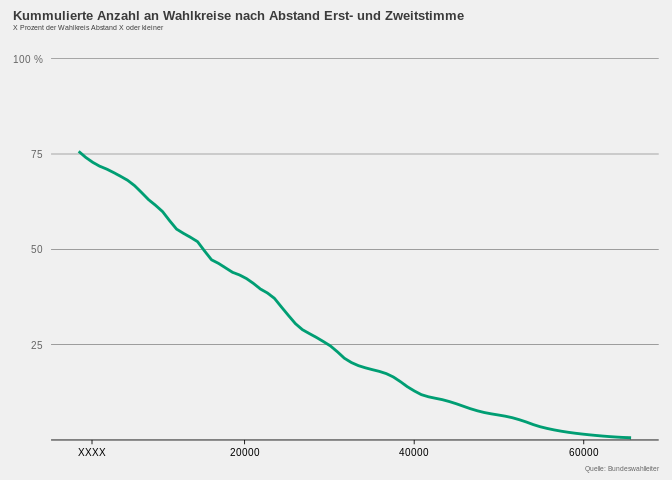
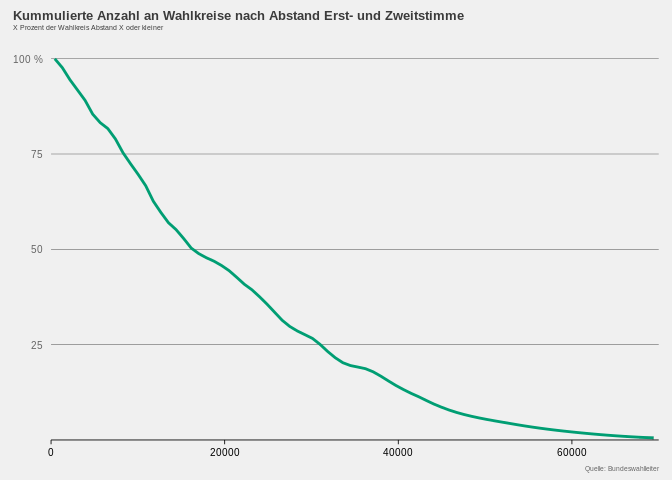
some clean up of code: 1. mainly fixing issues such margin variable and graph etc.

diff --git a/README.md b/README.md
@@ -316,14 +316,15 @@ parties in the parliament
 # 'state' vector for state names; 'data_state' vector needed for the names of the individual state data frames.
 # Additionally a clean data frame for each state as a potential backup source. 
   state <- c("SCH","HAM","NDS","BRE","NRW","HES","RHN","BAD","BAY","SAR","BER","BRA","MEC","SAC","SAA","THU")
-  clean_state <- paste( "clean_",state, sep="")
   data_state <- paste( "state_",state, sep="")
 # create data frames
   for (i in 1:16) {
     cleaned <- cleaned %>% mutate(Bundesland=replace(Bundesland, Bundesland==i, state[i]))
-    assign(paste0(clean_state[i]), cleaned[cleaned$Bundesland==state[i],])
     assign(paste0(data_state[i]), cleaned[cleaned$Bundesland==state[i],])
   rm(i)}
+
+# remove not needed list (short names states)
+  rm(state)
 ```
 
 ### create dynamic state datasets
@@ -617,6 +618,8 @@ rm(i,lp_matching,mandate.value,max_pro_wahlkreis,max_seats,n_parteien,n_wahlkrei
 
 ``` r
 margins <- data.frame(wahlkreisnummer=numeric(), margin=numeric())
+mandate <- data.frame(wahlkreisnummer=numeric(), wahlkreisname=numeric(),Bundesland=character(), mandate_actual=character(), mandate_optimisation=character(), votes_needed=numeric(),votes_halved=numeric())
+
 
 for (i in 1:16) {
  
@@ -657,15 +660,16 @@ for (i in 1:16) {
 
   
 # margins between first and second as dataframe for graph  
-  clean_up <- clean_up %>%
-                 mutate(margin=0) %>%
-                 mutate(margin=replace(margin, second_party == "CDU", CDU),
-                         margin=replace(margin, second_party == "SPD", SPD),
-                         margin=replace(margin, second_party == "LINKE", LINKE),
-                         margin=replace(margin, second_party == "GRÜNE", GRÜNE),
-                         margin=replace(margin, second_party == "CSU", CSU),
-                         margin=replace(margin, second_party == "AFD", AFD),
-                         margin=replace(margin, second_party == "FDP", FDP))
+  clean_up <- clean_up  %>%
+                    mutate(margin=0) %>%
+                    mutate(margin=replace(margin,  second_party == "CDU", CDU[second_party == "CDU"]),
+                          margin=replace(margin, second_party == "SPD", SPD[second_party == "SPD"]),
+                          margin=replace(margin, second_party == "LINKE", LINKE[second_party == "LINKE"]),
+                          margin=replace(margin, second_party == "GRÜNE", GRÜNE[second_party == "GRÜNE"]),
+                          margin=replace(margin, second_party == "CSU", CSU[second_party == "CSU"]),
+                          margin=replace(margin, second_party == "AFD", AFD[second_party == "AFD"]),
+                          margin=replace(margin, second_party == "FDP", FDP[second_party == "FDP"])) %>%
+                    as.data.frame()
 
   margins_placeholder <- clean_up %>% select(wahlkreisnummer,margin)
   margins <- rbind(margins,margins_placeholder)
@@ -673,26 +677,25 @@ for (i in 1:16) {
 #  divide by two as half amount would already amount to swing
   clean_up <- clean_up %>% mutate(votes_halved= ceiling(votes_needed/2))
 
-# save to data frame  
-  assign(paste0(data_state[i]), clean_up,)    
+# only keep variables needed
+  clean_up <- clean_up %>% select(-c(1,5:19,23)) %>% relocate(any_of(c("wahlkreisnummer" ,"wahlkreisname","Bundesland", "mandate_actual", "mandate_optimisation", "votes_needed","votes_halved")))
+   
 
+# merge with data frame for analysis
+  mandate <- rbind(mandate,clean_up)
 # cleanup
-  rm(loop_state,i,margins_placeholder)
+  rm(loop_state,i,margins_placeholder,clean_up)
 }
 ```
 
-# WHY 0???????????????????
+# Drop not needed data frames and values:
 
-test \<- state\_HAM
-
-test \<- state\_HAM %\>% mutate(margin=NA) %\>%
-mutate(margin=replace(margin, second\_party == “CDU” & is.na(margin),
-CDU)), margin=replace(margin, second\_party == “SPD”, SPD),
-margin=replace(margin, second\_party == “LINKE”, LINKE),
-margin=replace(margin, second\_party == “GRÜNE”, GRÜNE),
-margin=replace(margin, second\_party == “CSU”, CSU),
-margin=replace(margin, second\_party == “AFD”, AFD),
-margin=replace(margin, second\_party == “FDP”, FDP))
+``` r
+# drop data frames
+rm(list=c(data_state,dynamic_state))
+# drop values
+rm(data_state,dynamic_state,seats)
+```
 
 # Margins Graph - CHANGE LIMIT X AXIS?
 
@@ -707,8 +710,10 @@ margins %>%
                        breaks = c(seq(0.25,1,0.25)),
                        expand = c(0, 0), 
                        labels=c("0.25" = "25", "0.5"="50", "0.75"="75", "1"="100 %")) +
-      scale_x_continuous(breaks =c(2000,20000,40000,60000),
-                         labels=c("2000" = "XXXX", "20000"="20000", "40000"="40000", "60000"="60000")) +
+      scale_x_continuous(breaks =c(0,20000,40000,60000),
+                         labels=c("0"="0","20000"="20000", "40000"="40000", "60000"="60000"),
+                         limits=c(0,70000),
+                         expand = c(0, 0)) +
       labs(title = "Kummulierte Anzahl an Wahlkreise nach Abstand Erst- und Zweitstimme", subtitle="X Prozent der Wahlkreis Abstand X oder kleiner",caption = "Quelle: Bundeswahlleiter") +
       hp_theme() + theme(axis.text= element_text(size=7.5), axis.title.x = element_blank(),plot.title.position = "plot",  axis.title.y = element_blank(), 
                        panel.grid.major.x = element_blank(), panel.grid.major.y = element_line(size=.2, color="#656565"), axis.line.x=element_line( size=.3, color="black"),
@@ -717,3 +722,26 @@ margins %>%
 ```
 
 ![](README_figs/margins_graph-1.png)<!-- -->
+
+# Optimizied Election Map
+
+``` r
+map_optimized_election <- mandate %>%
+          mutate(change=NA) %>%
+          mutate(change=replace(change,mandate_actual!=mandate_optimisation,mandate_optimisation)) %>%
+          mutate(id=wahlkreisnummer-1,id=as.character(id)) 
+          
+map_optimized_election<- merge(shp_wahlkreise, map_optimized_election, by="id", all.y=T)
+
+
+  ggplot(data=map_optimized_election, aes(x=long, y=lat, group=group))+
+    geom_polygon(aes(fill=change), show.legend = T) +
+    geom_polygon(data=shp_wahlkreise, aes(x=long, y=lat, group=group), fill=NA, color="black", size=0.4) +
+    scale_fill_manual(values=c("#32302e","#E3000F","white")) +
+    labs(title = "Änderungen nach Optimisierung", subtitle="",caption = "Quelle: Bundeswahlleiter") +
+    coord_map() + # apply projection
+    theme_void() +  # remove axes
+    theme()
+```
+
+![](README_figs/optimized_election_map-1.png)<!-- -->
